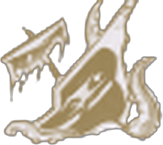
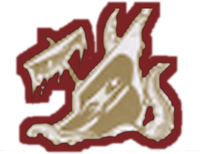
Mobilis: Wreck con contorno rosso come la nave viva
Claude-Session: https://claude.ai/code/session_01PzbYS2Eeg2NG4pwzyNp489

diff --git a/mobilis/sw.js b/mobilis/sw.js
@@ -1,5 +1,5 @@
 // Mobilis in Mobili: funziona anche offline. Cambiare VERSION a ogni aggiornamento.
-const VERSION = 'mim-v6';
+const VERSION = 'mim-v7';
 const FILES = ['./', 'index.html', 'style.css', 'cards.js', 'engine.js', 'ai.js', 'app.js', 'manifest.webmanifest', "img/ARONNAX.jpg","img/CONSEIL.jpg","img/EGO.jpg","img/NED.jpg","img/aid.jpg","img/apple-touch-icon.png","img/back.jpg","img/bulb.png","img/equilibrium.jpg","img/gem.png","img/icon-192.png","img/icon-512.png","img/icon-maskable.png","img/m0.jpg","img/m1.jpg","img/m10.jpg","img/m11.jpg","img/m12.jpg","img/m13.jpg","img/m14.jpg","img/m15.jpg","img/m16.jpg","img/m17.jpg","img/m18.jpg","img/m19.jpg","img/m2.jpg","img/m20.jpg","img/m21.jpg","img/m22.jpg","img/m23.jpg","img/m24.jpg","img/m25.jpg","img/m26.jpg","img/m27.jpg","img/m28.jpg","img/m29.jpg","img/m3.jpg","img/m30.jpg","img/m31.jpg","img/m32.jpg","img/m33.jpg","img/m34.jpg","img/m35.jpg","img/m36.jpg","img/m37.jpg","img/m38.jpg","img/m39.jpg","img/m4.jpg","img/m40.jpg","img/m41.jpg","img/m5.jpg","img/m6.jpg","img/m7.jpg","img/m8.jpg","img/m9.jpg","img/maelstrom.jpg","img/mind.png","img/nautcard.jpg","img/nautilus.jpg","img/nemesis.jpg","img/sub.png","img/warship.png","img/wreck.png"];
 self.addEventListener('install', e => { e.waitUntil(caches.open(VERSION).then(c => c.addAll(FILES)).then(() => self.skipWaiting())); });
 self.addEventListener('activate', e => { e.waitUntil(caches.keys().then(ks => Promise.all(ks.filter(k => k !== VERSION).map(k => caches.delete(k)))).then(() => self.clients.claim())); });
